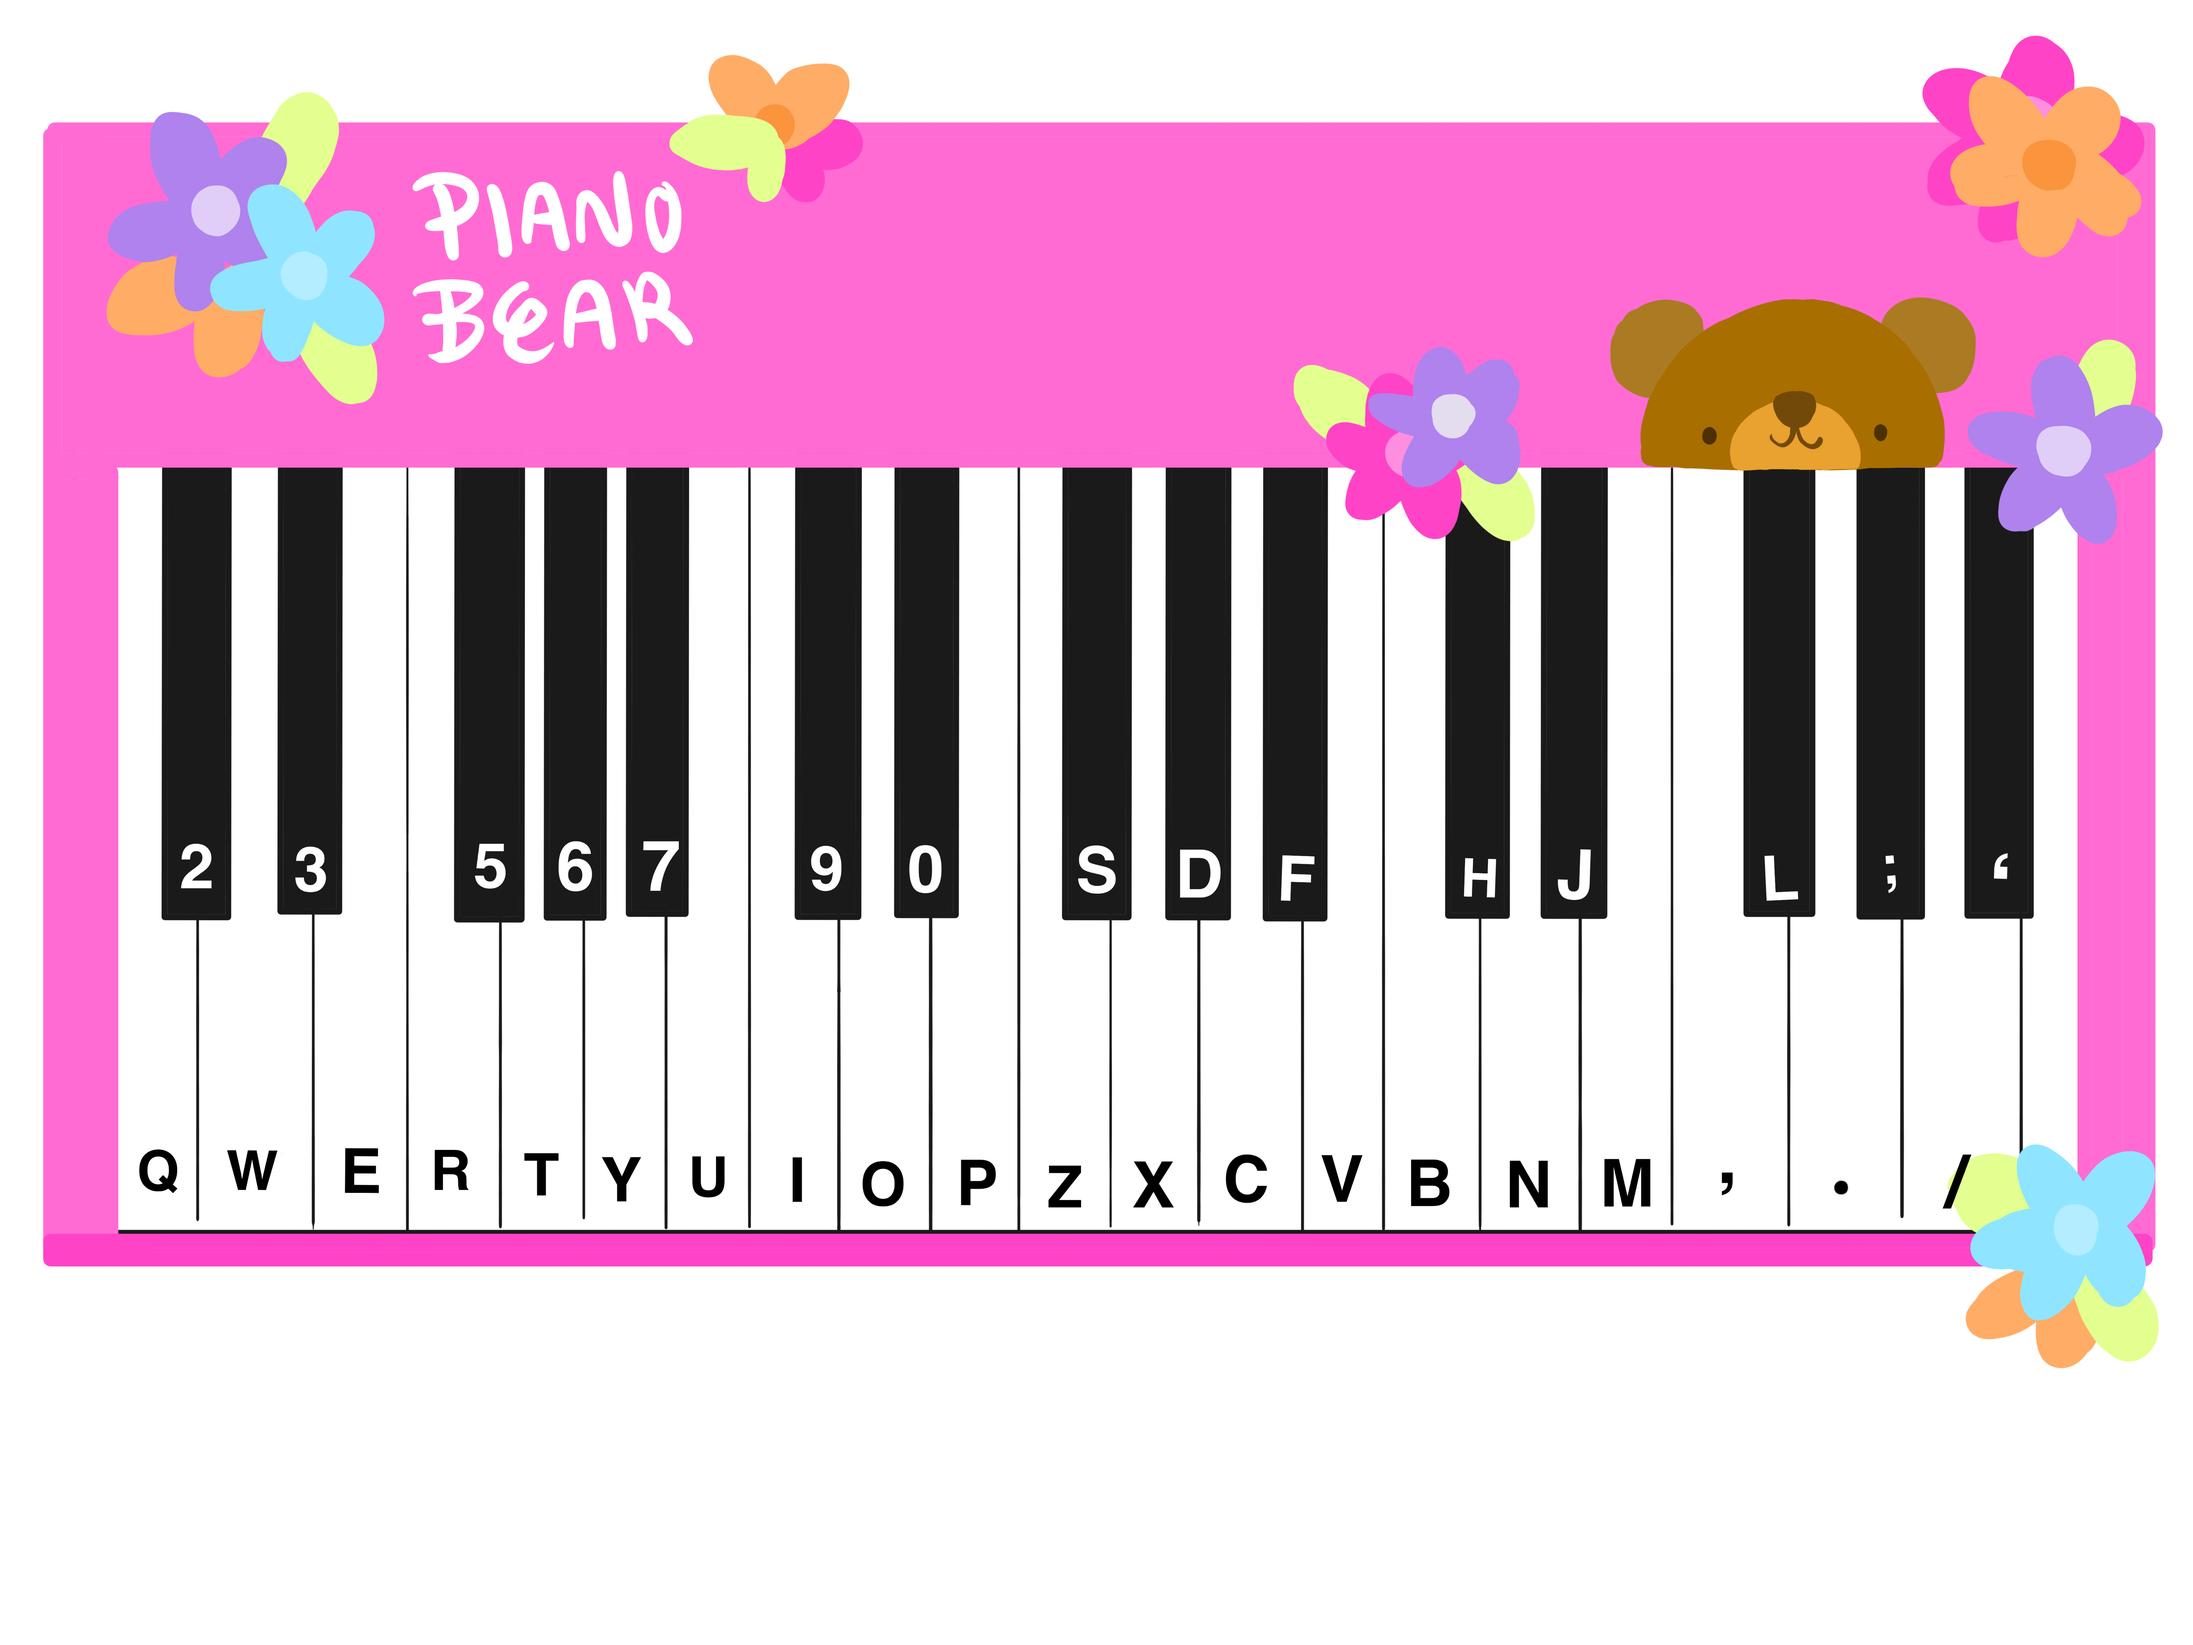
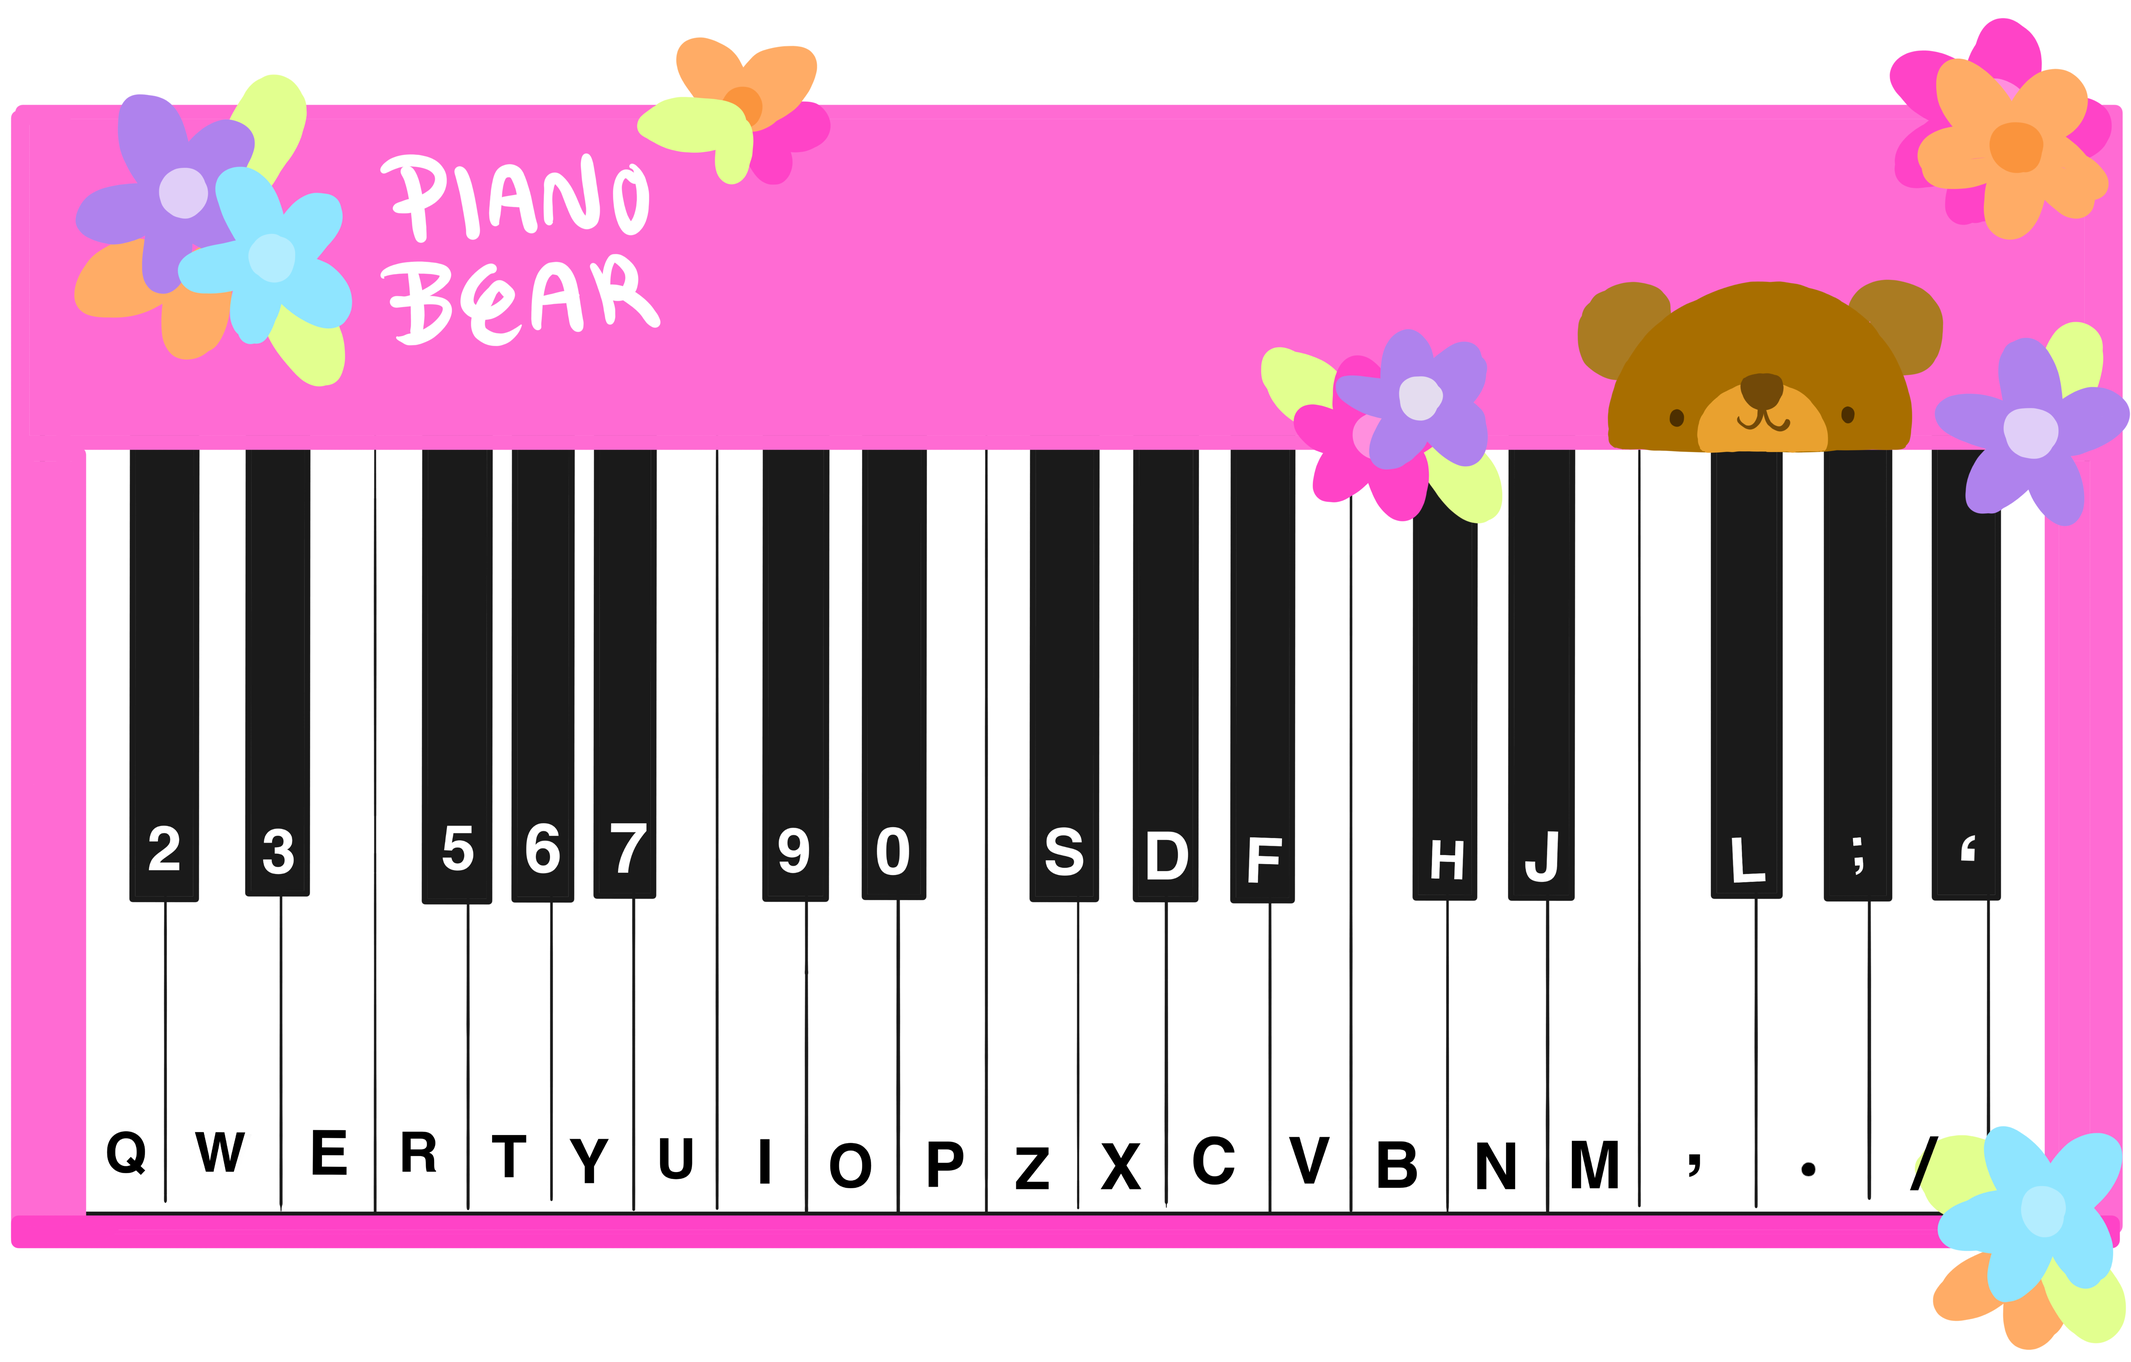
Fixed piano guide

diff --git a/guide.html b/guide.html
@@ -4,8 +4,9 @@
     <title>Piano Bear</title>
     <link rel="stylesheet" href="style.css" />
     <link href="https://fonts.googleapis.com/css2?family=Noto+Sans+HK:wght@100&display=swap" rel="stylesheet">
+    <link rel="preconnect" href="https://fonts.gstatic.com" crossorigin>
+    <link href="https://fonts.googleapis.com/css2?family=Raleway:wght@600&display=swap" rel="stylesheet">
     <style>
-    @import url('https://fonts.googleapis.com/css2?family=Raleway:wght@600&display=swap');
     </style>
   </head>
   <body>
@@ -16,8 +17,12 @@
     <div class="description">
       <p> Insert TEST HERE </p>
     </div>
+    <div class="guide">
+      <img src="guide.png" alt="Piano Guide" id="guide-img">
+    </div>
     <div class="center">
-      <button><a class ="text" href=index.html> Play with Piano Bear </a></button>
+      <button class="orange"><a class ="text" href=index.html> Play with Piano Bear </a></button>
+      <button> <a class="text" href=learn.html>Learn More</a></button>
     </div>
     <footer> <a class="underline"> Made with ♡ by Michelle </a></footer>
   </body>

diff --git a/index.html b/index.html
@@ -15,7 +15,9 @@
       <h1 id="header1">Piano Bear</h1>
       <h2> Meet Piano Bear! Your friendly, neighborhood piano maestro!</h2>
     </div>
-    <img src="Piano Bear Idle.png" alt="Piano Bear" id="piano-bear-img">
+    <div class="bear">
+      <img src="Piano Bear Idle.png" alt="Piano Bear" id="piano-bear-img">
+    </div>
     <div class="center">
       <button> <a class="text" href=learn.html>Learn More</a></button>
       <button class="pink"> <a class="text" href=guide.html>Piano Guide</a></button>

diff --git a/learn.html b/learn.html
@@ -20,7 +20,8 @@
       <p> Inspired by Bongo Cat, Piano Bear was created by Michelle Ly </p>
     </div>
     <div class="center">
-      <button><a class ="text" href=index.html> Play with Piano Bear </a></button>
+      <button class="orange"><a class ="text" href=index.html> Play with Piano Bear </a></button>
+      <button class="pink"> <a class="text" href=guide.html>Piano Guide</a></button>
     </div>
     <footer> <a class="underline"> Made with ♡ by Michelle </a></footer>
   </body>

diff --git a/style.css b/style.css
@@ -15,6 +15,10 @@ h2{
   width: 95%;
 }
 
+.bear{
+  text-align: center;
+}
+
 button {
   border-radius: 3px;
   padding: 18px;
@@ -29,9 +33,15 @@ button {
 .pink{
   background: rgb(254,108,212);
 }
+
+.orange{
+  background:rgb(255,172,102)
+}
+
 .text{
   color: white;
   font-family: 'Raleway', sans-serif;
+  text-decoration: none;
 }
 
 .center{
@@ -83,5 +93,13 @@ footer{
 }
 
 #profile-img{
+  max-width: 70%;
+}
+
+.guide{
+  text-align: center;
+}
+
+#guide-img{
   max-width: 70%;
 }

diff --git a/script.js b/script.js
@@ -66,13 +66,13 @@ document.addEventListener('keydown', function(e){
 });
 
 function down(){
-  var i = document.getElementById("img1");
+  var i = document.getElementById("piano-bear-img");
   if (i.src.includes("Piano%20Bear%20Idle.png"))
     i.src = "Piano Bear Play.png";
 }
 
 function up(){
-  var i = document.getElementById("img1");
+  var i = document.getElementById("piano-bear-img");
   if (i.src.includes("Piano%20Bear%20Play.png"))
     i.src = "Piano Bear Idle.png";
 }
